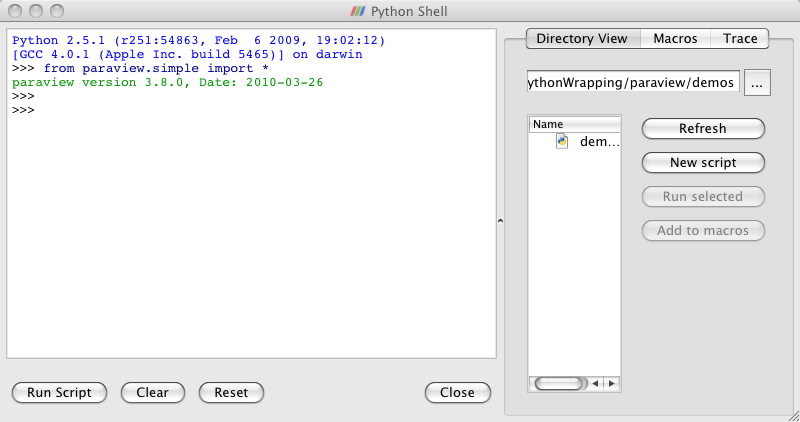
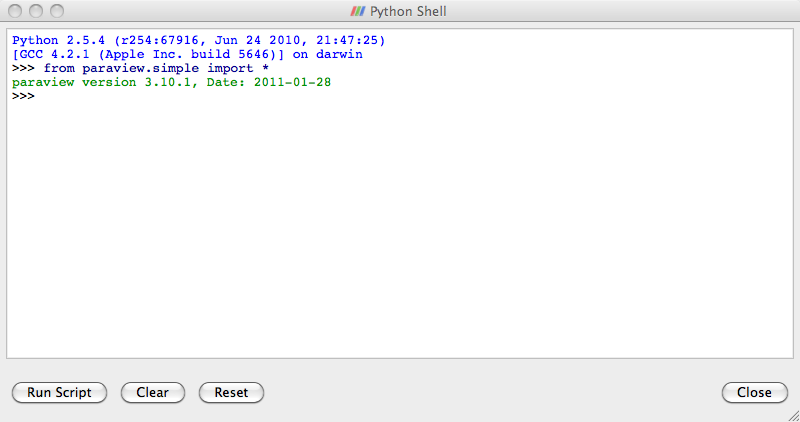
Update the python shell dialog screenshot.

diff --git a/BatchPythonScripting.tex b/BatchPythonScripting.tex
@@ -35,7 +35,7 @@ Python interpreter, where you directly control
 ParaView via the interface described below. 
 
 \begin{inlinefig}
-  \includegraphics[width=.9\linewidth]{images/PythonShellDialog}
+  \includegraphics[width=\scw]{images/PythonShellDialog}
 \end{inlinefig}
 
 If you are most interested in getting started on writing scripts,
